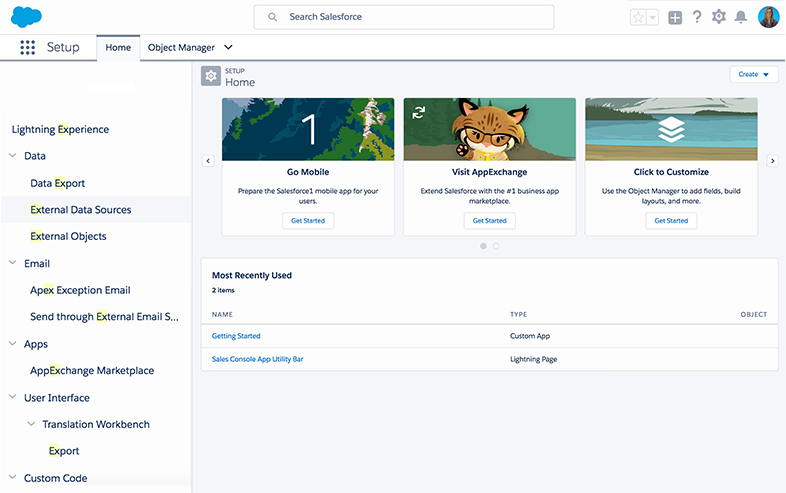
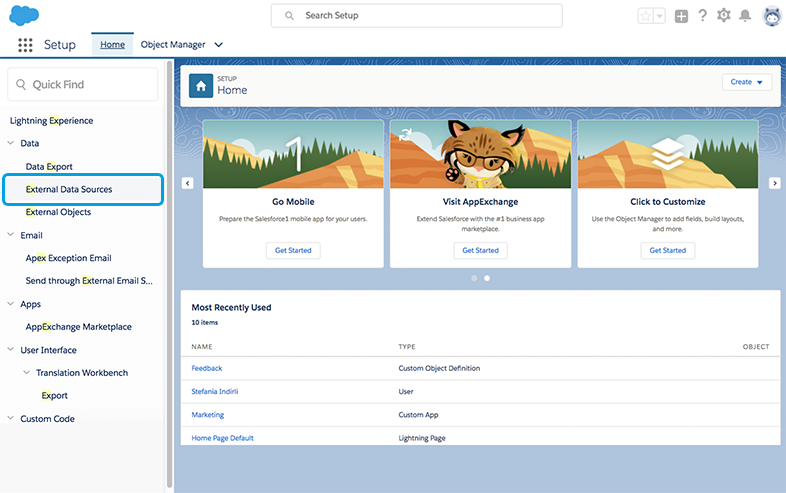
Chapter two issue-#6 and issue-#24 "home screen" changes and click box fix.

diff --git a/src/styles/_salesforce-connect.scss b/src/styles/_salesforce-connect.scss
@@ -34,7 +34,9 @@
         .controls {
           input {
             &.text {
-              width: 181px;
+              width: 153px;
+              margin-left: 6px;
+              margin-top: -4px;
               border-radius: 4px;
               background-image: url("../assets/images/chapters/salesforce-connect/magnifying-glass.svg");
               background-size: 12px;
@@ -42,7 +44,7 @@
               background-repeat: no-repeat;
               padding-left: 25px;
               font-size: 12px;
-              height: 31px;
+              height: 33px;
               &::placeholder {
                 color: black;
               }
@@ -57,10 +59,10 @@
       }
     }
     .click-box {
-      top: 196px;
-      left: 15px;
-      width: 165px;
-      height: 25px;
+      top: 175px;
+      left: 3px;
+      width: 159px;
+      height: 27px;
     }
   }
 
